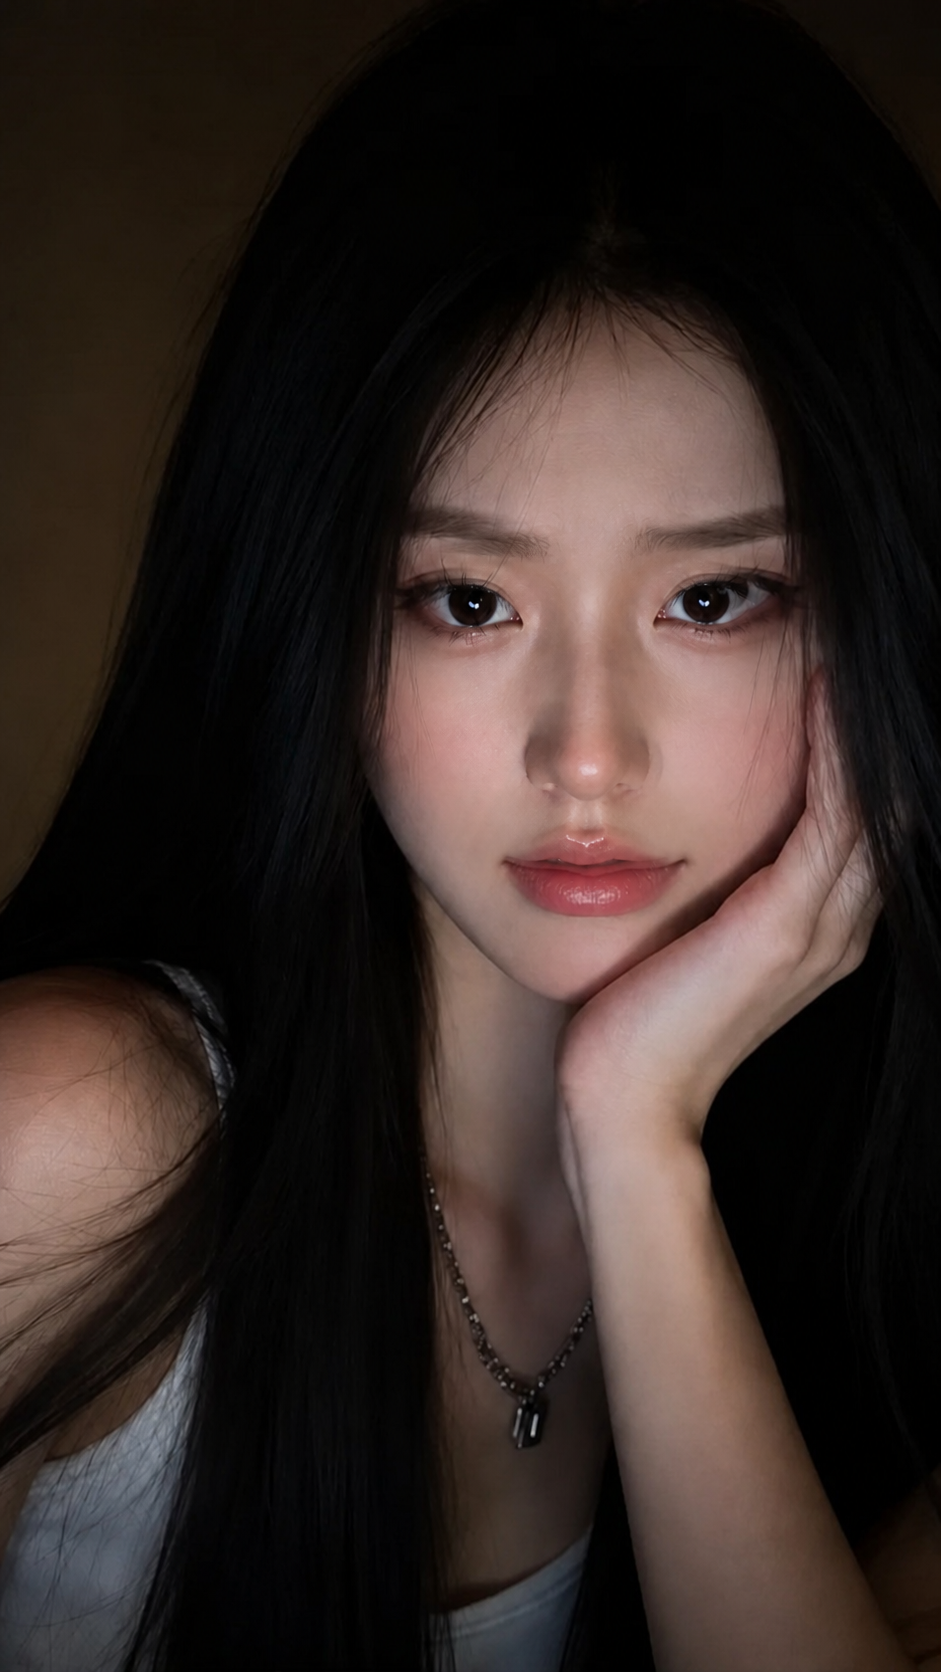
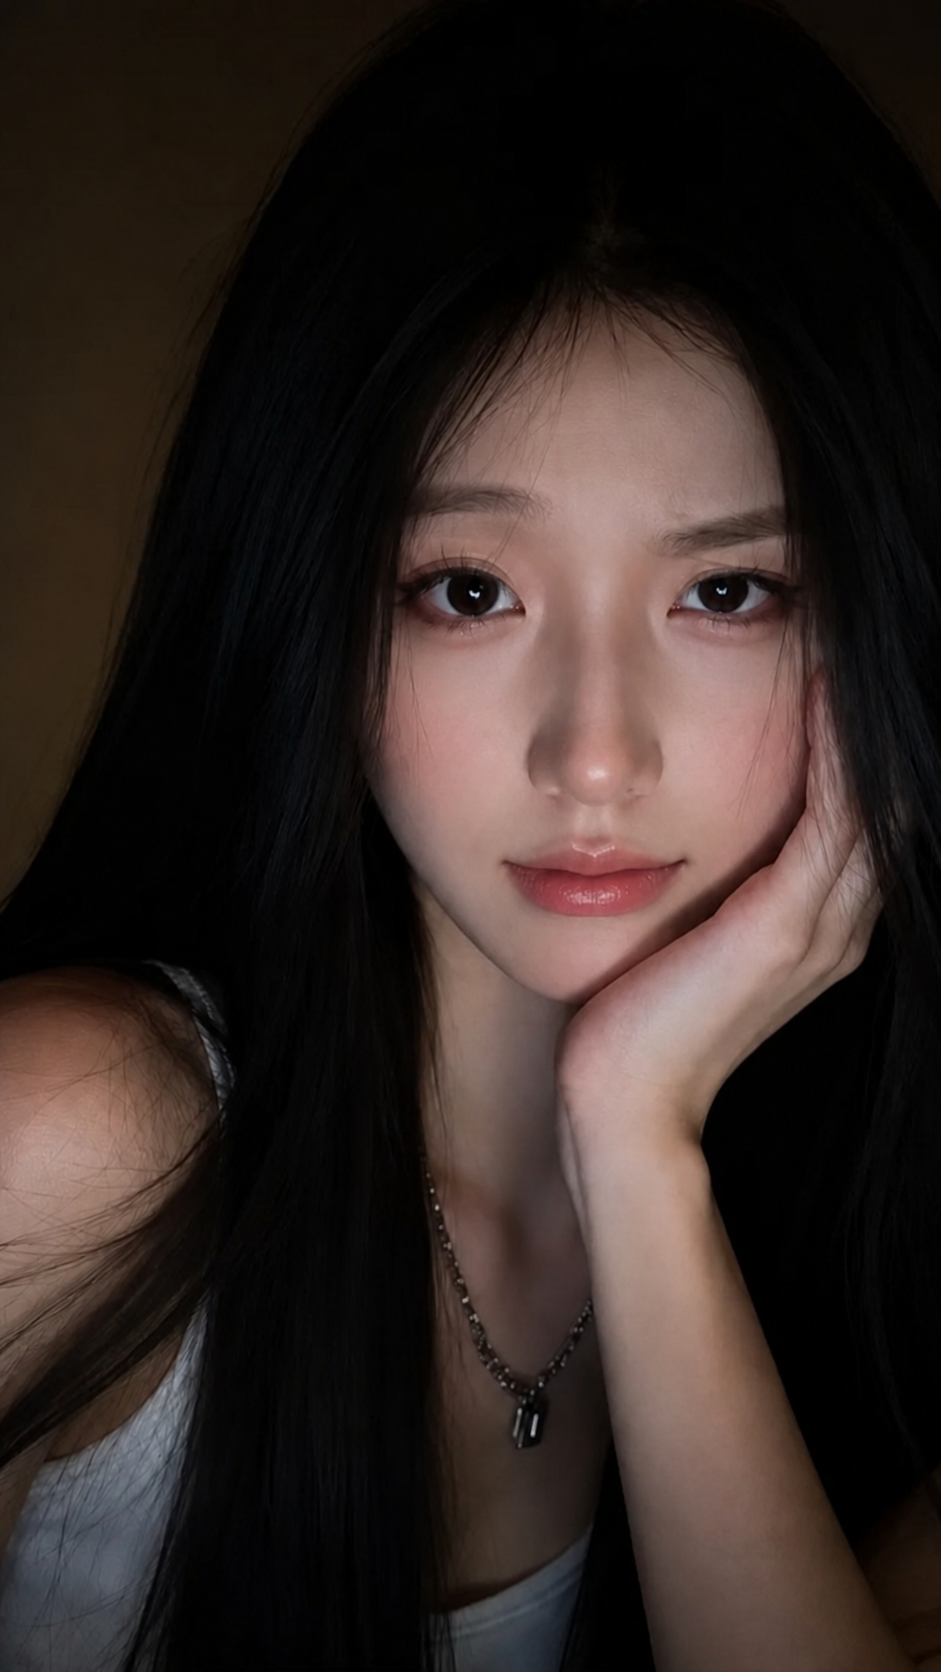
Keep the six new faces on the live portrait.
Generated source swaps made her uncanny; those cues now only retarget keypoints on xiaoya_locket, same as a mild original expression.

diff --git a/services/avatar/avtr1_gateway.py b/services/avatar/avtr1_gateway.py
@@ -433,6 +433,11 @@ EXPRESSION_PROFILES = {
     "soft_smile", "curious", "side_eye", "lip_bite", "sleepy", "tender",
 }
 SILENT_ONLY_PROFILES = frozenset({"lip_bite", "cheek_puff"})
+# These have no August-calibrated still. Drive them on the live portrait with
+# retargeted keypoints only — a generated source swap made her look uncanny.
+PARAMETER_ONLY_PROFILES = frozenset({
+    "soft_smile", "curious", "side_eye", "lip_bite", "sleepy", "tender",
+})
 SPEAKABLE_SUBSTITUTES = {
     "lip_bite": "smirk",
     "cheek_puff": "cute_annoyed",
@@ -500,6 +505,7 @@ def _render_avatar_for_expression(base_avatar_id: str) -> str:
     if (
         base_avatar_id == EXPRESSION_SOURCE_AVATAR
         and expression_profile != "neutral"
+        and expression_profile not in PARAMETER_ONLY_PROFILES
         and max(expression_gain, expression_target) >= EXPRESSION_SOURCE_MIN_INTENSITY
     ):
         return f"{EXPRESSION_SOURCE_PREFIX}{expression_profile}"

diff --git a/tests/test_avtr_gateway_streaming.py b/tests/test_avtr_gateway_streaming.py
@@ -209,6 +209,20 @@ class SemanticExpressionEnvelopeTests(unittest.TestCase):
             "xiaoya_locket",
         )
 
+    def test_new_faces_stay_on_base_portrait(self):
+        gateway.expression_profile = "side_eye"
+        gateway.expression_gain = 0.8
+        gateway.expression_target = 0.8
+        self.assertEqual(
+            gateway._render_avatar_for_expression("xiaoya_locket"),
+            "xiaoya_locket",
+        )
+        gateway.expression_profile = "lip_bite"
+        self.assertEqual(
+            gateway._render_avatar_for_expression("xiaoya_locket"),
+            "xiaoya_locket",
+        )
+
     def test_profile_switch_uses_gradual_release_before_replacing_basis(self):
         gateway.expression_profile = "laugh"
         gateway.expression_gain = 0.5
